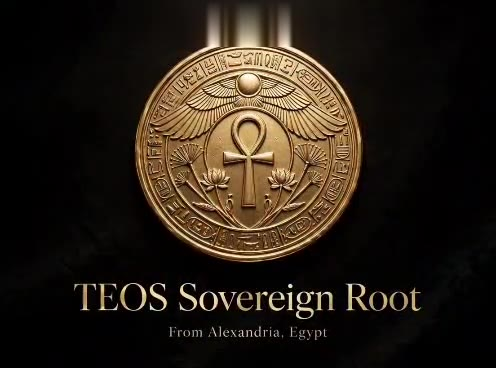
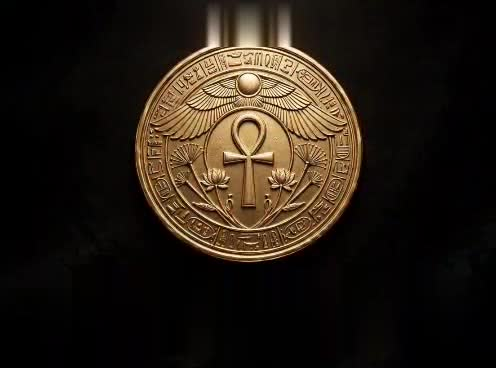
Mobile wallet deep link in the tap, gate card first, mobile fixes
- Wallet: a tap on Phantom/Solflare/Trust in the unchanged modal now opens
  the wallet deep link inside the tap (user gesture). Android: intent to
  https://phantom.app/ul/browse/<site> pinned to the package, Play Store as
  fallback when not installed; iOS: universal link. Removed the 2s confirm.
- Remove the "Law Over Code" banner image and card (file deleted)
- Gate card (Egypt now has its digital gate) is the first card after the
  hero, shown in full so the Arabic text is not clipped
- Hero video: explicit absolute inset 0, 100% size, cover
- Mobile: nav not sticky and without the duplicate search/TLD buttons;
  poster without the baked caption; no horizontal overflow

Changed region(s): [[0.1512, 0.7473, 0.8468, 0.8668], [0.3327, 0.8668, 0.6653, 0.9266]]

diff --git a/app/page.tsx b/app/page.tsx
@@ -31,7 +31,6 @@ declare global { interface Window { solana?: any; phantom?: { solana?: any } } }
 
 const imgStyle: React.CSSProperties = { borderRadius: 20, border: "1px solid #1F3B44" };
 const ALT = {
-  banner: { en: "TEOS sovereign gateway", ar: "بوابة TEOS السيادية", id: "Pintu masuk sovereign TEOS" } as Record<Lang, string>,
   gate: { en: "The TEOS gate - unlock your sovereign", ar: "بوابة TEOS - افتح اسمك السيادي", id: "Pintu masuk TEOS" } as Record<Lang, string>,
   certificate: { en: "TEOS dig certificate", ar: "شهادة التخذ TEOS", id: "Sertifikat TEOS" } as Record<Lang, string>,
 };
@@ -98,17 +97,20 @@ export default function Home() {
   return (
     <>
     <LiveTicker t={L} rtl={rtl} founders={stats?.founders ?? []} sold={typeof stats?.total_sold === "number" ? stats.total_sold : null} tlds={all.length} />
-    <nav style={{ position: "sticky", top: 0, zIndex: 40, background: "rgba(10,8,6,.94)", backdropFilter: "blur(8px)", borderBottom: "1px solid #3d352a" }}>
+    <nav className="site-nav" style={{ position: "sticky", top: 0, zIndex: 40, background: "rgba(10,8,6,.94)", backdropFilter: "blur(8px)", borderBottom: "1px solid #3d352a" }}>
       <div style={{ maxWidth: 1100, margin: "0 auto", padding: "10px 20px", display: "flex", alignItems: "center", gap: 14, flexWrap: "wrap" }}>
         <div style={{ display: "flex", alignItems: "center", gap: 10 }}><FounderSeal size={48} /><div><div style={{ fontFamily: SERIF, fontSize: 24, letterSpacing: "0.2em", color: "#fef3c7", lineHeight: 1 }}>TEOS Sovereign Root</div><div style={{ fontSize: 10, letterSpacing: "0.25em", color: "#a89a80", marginTop: 4 }}>{L.tagline}</div></div></div>
         <span style={{ marginInlineStart: "auto", display: "flex", alignItems: "center", gap: 14, flexWrap: "wrap" }}>
-          <a href="#search" style={{ ...tablet, textDecoration: "none" }}>{L.search}</a>
+          <a className="nav-dup" href="#search" style={{ ...tablet, textDecoration: "none" }}>{L.search}</a>
           <button style={{ ...btn, padding: "4px 14px", fontSize: 14 }} onClick={connectWallet}>{wallet ? `${wallet.slice(0, 4)}...${wallet.slice(-4)}` : L.connect}</button>
-          <span style={{ ...tablet, cursor: "default", fontFamily: "ui-monospace, monospace" }}><Bidi text={t("header.tlds")} /></span>
+          <span className="nav-dup" style={{ ...tablet, cursor: "default", fontFamily: "ui-monospace, monospace" }}><Bidi text={t("header.tlds")} /></span>
         </span>
       </div>
     </nav>
     <HeroVideo rtl={rtl} searchLabel={L.search} connectLabel={wallet ? `${wallet.slice(0, 4)}...${wallet.slice(-4)}` : L.connect} onSearch={goSearch} onConnect={connectWallet} />
+    <section aria-label={ALT.gate[lang]} style={{ boxSizing: "border-box", width: "100%", maxWidth: 1000, margin: "0 auto", padding: "20px 12px 0" }}>
+      <Image src="/images/teos-gate.webp" width={1600} height={1067} alt={ALT.gate[lang]} priority style={{ ...imgStyle, width: "100%", height: "auto", display: "block" }} sizes="(max-width: 1000px) 100vw, 1000px" />
+    </section>
     <main dir={rtl ? "rtl" : "ltr"} lang={lang} data-fading={fading ? "1" : undefined} style={{ maxWidth: 1100, margin: "0 auto", padding: "32px 20px" }}>
       <LanguageToggle lang={lang} onChange={setLang} />
 
@@ -169,17 +171,9 @@ export default function Home() {
         </div>
       </div>
 
-      <div style={{ width: "100%", maxWidth: "640px", margin: "0 auto", padding: "24px 0" }}>
-        <Image src="/images/teos-banner.webp" width={960} height={540} alt={ALT.banner[lang]} style={{ ...imgStyle, width: "100%", height: "auto", maxHeight: "50vh", objectFit: "cover" }} sizes="(max-width: 640px) 100vw, 640px" priority />
-      </div>
-
       {popup && (<DomainSearchPopup t={L} rtl={lang === "ar"} homeTld={selectedTld} name={clean} teos={checked ? checked.results?.find((x: any) => x.tld === "teos") ?? null : null} tlds={all} ownsTeos={owned.includes(clean)} founder={clean === "elmahrosa"} open={open} busy={busy} onBuy={mint} onClose={() => setPopup(false)} />)}
       {quote && <MintModal t={L} rtl={rtl} domain={clean} quote={quote} onClose={() => setQuote(null)} helpHref={SOCIAL.help} />}
       {msg && <p role="alert" style={{ color: "#f87171" }}>{msg}</p>}
-
-      <div style={{ width: "90%", maxWidth: "500px", margin: "0 auto", padding: "24px 0" }}>
-        <Image src="/images/teos-gate.webp" width={1600} height={1067} alt={ALT.gate[lang]} style={{ ...imgStyle, width: "100%", height: "auto", maxHeight: "60vh", objectFit: "cover" }} sizes="(max-width: 768px) 90vw, 50vw" />
-      </div>
 
       <WhyBuy t={L} countries={all.length} onCta={goSearch} />
       <PricingTable t={L} solUsd={stats?.sol_usd ?? null} />

diff --git a/components/ConnectProvider.tsx b/components/ConnectProvider.tsx
@@ -3,7 +3,7 @@ import { useEffect, useRef } from "react";
 import { useWallet } from "@solana/wallet-adapter-react";
 import { useWalletModal } from "@solana/wallet-adapter-react-ui";
 import { WalletReadyState } from "@solana/wallet-adapter-base";
-import { MOBILE_WALLETS, type WalletId } from "@/lib/mobileWallet";
+import { MOBILE_WALLETS, launchWallet, needsDeepLink, walletIdFromLabel, type WalletId } from "@/lib/mobileWallet";
 
 // The provider runs with autoConnect={false}, and the wallet modal only *selects* a wallet; nothing connects it.
 // So after the user picks a wallet in the modal (modal closes with a wallet selected and not connected) we call
@@ -14,7 +14,7 @@ import { MOBILE_WALLETS, type WalletId } from "@/lib/mobileWallet";
 // (the in-app browser injects it a moment after load), select it and connect, so the approval prompt shows.
 export default function ConnectProvider({ children }: { children: React.ReactNode }) {
   const { wallets, select, connect, connected, connecting, wallet } = useWallet();
-  const { visible } = useWalletModal();
+  const { visible, setVisible } = useWalletModal();
   const wanted = useRef<WalletId | null>(null);
   const modalSeen = useRef(false);
   const connectedFor = useRef<string | null>(null);
@@ -27,6 +27,24 @@ export default function ConnectProvider({ children }: { children: React.ReactNod
   }, [wallet, connected, select]);
 
   useEffect(() => { if (visible) modalSeen.current = true; }, [visible]);
+
+  // Mobile browser without a wallet: a tap on Phantom / Solflare / Trust in the (unchanged) modal opens that wallet's
+  // deep link right inside the tap, so Chrome treats it as a user gesture. The wallet then loads this site in its own
+  // browser with ?connect=<wallet> and connects there.
+  useEffect(() => {
+    const onClick = (e: MouseEvent) => {
+      if (!needsDeepLink()) return;
+      const row = (e.target as HTMLElement | null)?.closest?.(".wallet-adapter-modal-list li");
+      if (!row) return;
+      const id = walletIdFromLabel(row.textContent || "");
+      if (!id) return;
+      e.preventDefault(); e.stopPropagation();
+      setVisible(false);
+      launchWallet(id);
+    };
+    document.addEventListener("click", onClick, true);
+    return () => document.removeEventListener("click", onClick, true);
+  }, [setVisible]);
   useEffect(() => { if (!wallet) connectedFor.current = null; }, [wallet]);
   useEffect(() => {
     if (visible || !modalSeen.current || !wallet || connected || connecting || wanted.current) return;

diff --git a/lib/mobileWallet.ts b/lib/mobileWallet.ts
@@ -37,26 +37,27 @@ export function siteUrlFor(id: WalletId): string {
   return u.toString();
 }
 
-// Android: an intent pinned to the wallet's package, so nothing else can handle it. If the app is not
-// installed the page stays put, and the caller shows the Install button after a short wait.
-// iOS: the wallet's universal link, which is what the wallet-adapter itself uses.
+// Android: an intent pinned to the wallet's package, with the Play Store page as the fallback. If the wallet is
+// installed it opens at once (Phantom: https://phantom.app/ul/browse/<site>); if not, Chrome opens the store page.
+// iOS: the wallet's universal link, which opens the app, or the wallet's own install page when it is missing.
 export function walletLaunchHref(id: WalletId): string {
   const w = MOBILE_WALLETS[id];
   const l = w.browse(siteUrlFor(id), location.origin);
-  return isAndroid() ? `intent://${l.host}${l.path}#Intent;scheme=https;package=${w.pkg};end` : l.https;
+  return isAndroid() ? `intent://${l.host}${l.path}#Intent;scheme=https;package=${w.pkg};S.browser_fallback_url=${encodeURIComponent(playStoreUrl(id))};end` : l.https;
 }
 
 export const needsDeepLink = () => isMobileBrowser() && !hasInjectedWallet();
 
-// Open the wallet app. If the page is still in the foreground 2s later the app is not installed:
-// offer the Play Store page (a plain confirm, so the connect modal keeps its design).
+// Must run inside the tap handler: Chrome only follows an intent that comes from a user gesture.
 export function launchWallet(id: WalletId) {
-  let t: ReturnType<typeof setTimeout>;
-  const stop = () => { if (document.visibilityState === "hidden") clearTimeout(t); };
-  document.addEventListener("visibilitychange", stop);
-  t = setTimeout(() => {
-    document.removeEventListener("visibilitychange", stop);
-    if (document.visibilityState === "visible" && window.confirm(`${MOBILE_WALLETS[id].label} not found. Install it from Google Play?`)) window.location.href = playStoreUrl(id);
-  }, 2000);
   window.location.href = walletLaunchHref(id);
+}
+
+// Which deep-linked wallet a modal row is, by its visible name.
+export function walletIdFromLabel(label: string): WalletId | null {
+  const t = label.trim().toLowerCase();
+  if (t.startsWith("phantom")) return "phantom";
+  if (t.startsWith("solflare")) return "solflare";
+  if (t.startsWith("trust")) return "trust";
+  return null;
 }

diff --git a/app/layout.tsx b/app/layout.tsx
@@ -34,7 +34,7 @@ export default function RootLayout({ children }: { children: React.ReactNode }) 
         <link rel="preconnect" href="https://fonts.googleapis.com" />
         <link href="https://fonts.googleapis.com/css2?family=Cinzel:wght@400;700&display=swap" rel="stylesheet" />
         <script dangerouslySetInnerHTML={{ __html: 'try{var l=localStorage.getItem("selectedLang")||localStorage.getItem("lang");if(!l){var n=(navigator.language||"").toLowerCase();l=n.indexOf("ar")==0?"ar":n.indexOf("id")==0?"id":"en"}if(l==="ar"||l==="id"){document.documentElement.lang=l;document.documentElement.dir=l==="ar"?"rtl":"ltr";document.documentElement.setAttribute("data-pending","1")}}catch(e){}' }} />
-        <style dangerouslySetInnerHTML={{ __html: 'html[lang="ar"] body{font-family:var(--font-cairo),sans-serif !important}main{transition:opacity .15s ease}main[data-fading="1"],html[data-pending] main{opacity:0}' }} />
+        <style dangerouslySetInnerHTML={{ __html: 'html[lang="ar"] body{font-family:var(--font-cairo),sans-serif !important}main{transition:opacity .15s ease}main[data-fading="1"],html[data-pending] main{opacity:0}@media(max-width:768px){.site-nav{position:static !important}.nav-dup{display:none !important}.site-nav>div{padding:8px 12px !important;gap:8px !important}}' }} />
         <script type="application/ld+json" dangerouslySetInnerHTML={{ __html: JSON.stringify(jsonLd) }} />
       </head>
       <body style={{ margin: 0, background: "radial-gradient(ellipse at top,#1a1611,#0a0806 70%)", color: "#f5e6c4", fontFamily: "Georgia, serif", minHeight: "100vh" }}><Providers>{children}</Providers></body>

diff --git a/components/HeroVideo.tsx b/components/HeroVideo.tsx
@@ -27,9 +27,9 @@ export default function HeroVideo({ searchLabel, connectLabel, onSearch, onConne
   const ghost: React.CSSProperties = { ...btn, background: "rgba(10,8,6,.55)", color: "#fef3c7", border: "2px solid #ca8a04" };
 
   return (
-    <section aria-label="EL MAHROSA TEOS" style={{ position: "relative", overflow: "hidden", background: `#0a0806 url(${POSTER}) center/cover no-repeat`, minHeight: "clamp(420px, 62vh, 620px)", display: "flex", alignItems: "center", justifyContent: "center" }}>
+    <section aria-label="EL MAHROSA TEOS" style={{ position: "relative", width: "100%", margin: 0, overflow: "hidden", background: `#0a0806 url(${POSTER}) center/cover no-repeat`, minHeight: "clamp(420px, 62vh, 620px)", display: "flex", alignItems: "center", justifyContent: "center" }}>
       {playVideo && (
-        <video autoPlay muted loop playsInline preload="auto" poster={POSTER} aria-hidden="true" style={{ position: "absolute", inset: 0, width: "100%", height: "100%", objectFit: "cover" }}>
+        <video autoPlay muted loop playsInline preload="auto" poster={POSTER} aria-hidden="true" style={{ position: "absolute", top: 0, left: 0, right: 0, bottom: 0, inset: 0, width: "100%", height: "100%", minWidth: "100%", minHeight: "100%", objectFit: "cover", objectPosition: "center", display: "block" }}>
           <source src={VIDEO} type="video/mp4" />
         </video>
       )}

diff --git a/public/images/README.md b/public/images/README.md
@@ -2,7 +2,6 @@
 
 Brand and marketing assets for the TEOS Web4 `.teos` name experience.
 
-- `teos-banner.webp` — main site banner (960x540)
 - `teos-gate.webp` — .teos gate / hero illustration (1600x1067)
 - `teos-dig-certificate.webp` — on-chain "dig" certificate asset (1600x1067)
 
